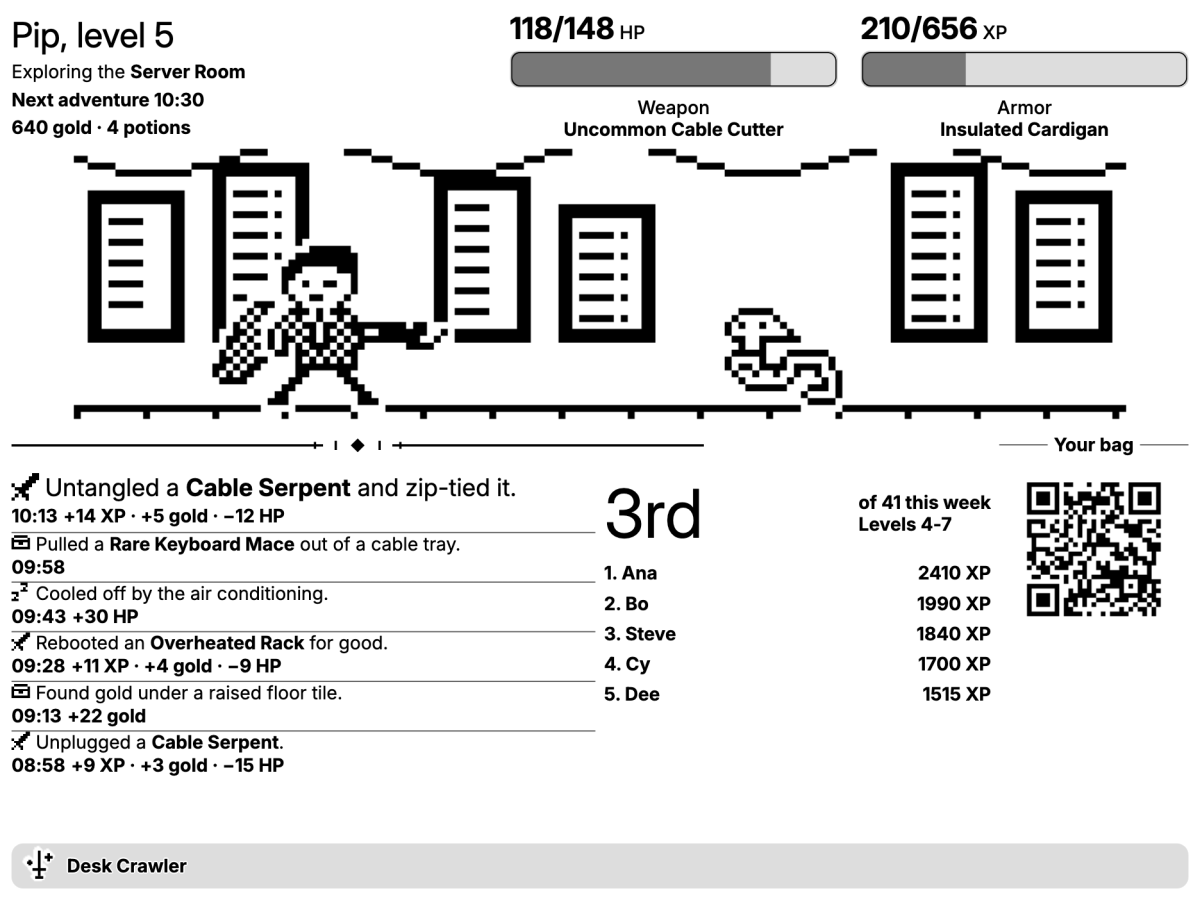
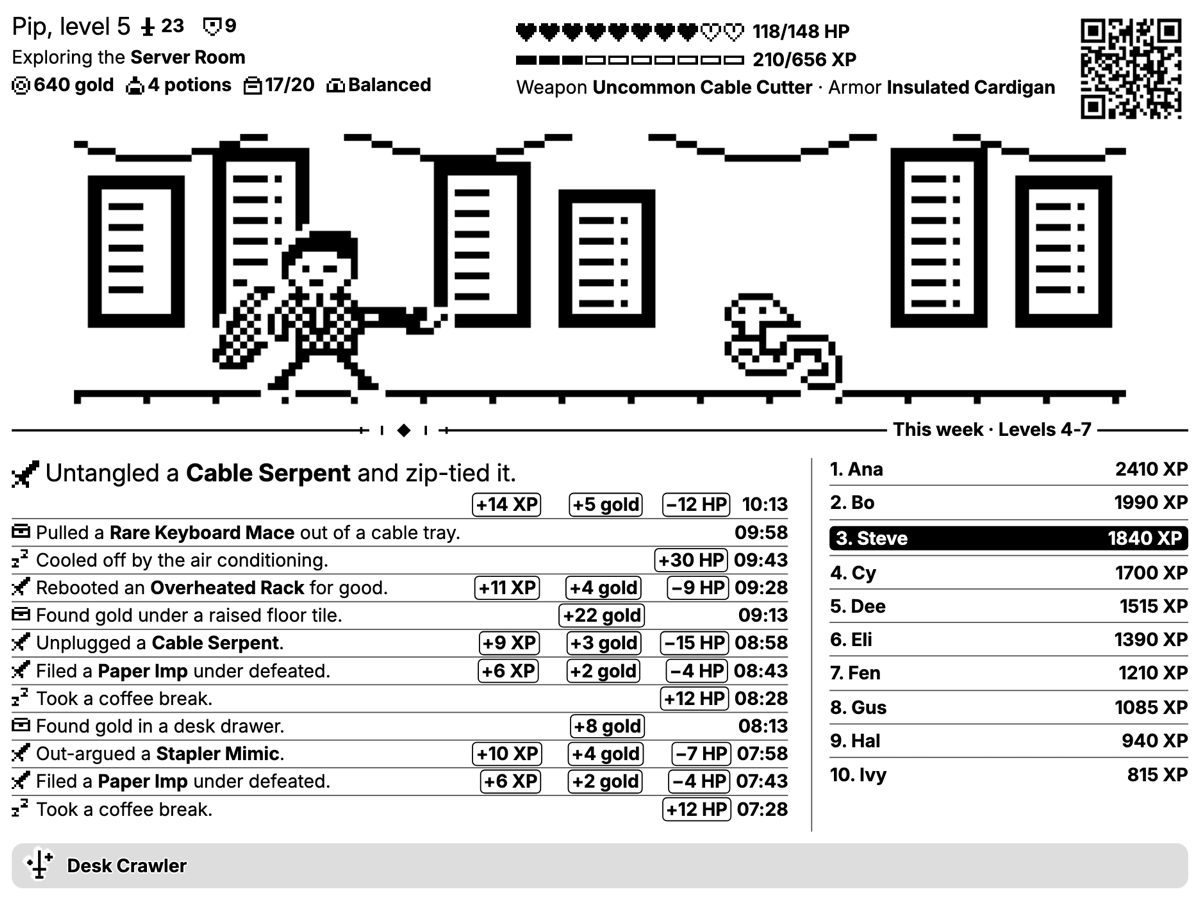
Re-render the public sample screen from the current template (v46) for the game page, waiting list and QR pitch

Changed region(s): [[0.0, 0.0, 1.0, 0.9333]]

diff --git a/docs/status.md b/docs/status.md
@@ -54,7 +54,7 @@ The [current release checklist](evidence/release.md) is the gate source. Install
 
 Submission work:
 
-- Listing image regenerated from the original installation and verified on the actual install page. The fictional [sample](release/featured-image.png) is deployed on the landing page ([evidence](evidence/listing-polish-deploy.md)).
+- Listing image regenerated from the original installation and verified on the actual install page. The public pages' fictional sample (`apps/web/public/games/desk-crawler/screen-sample.png`, shown on the game page, the waiting list and the QR pitch) was re-rendered on 2026-10-08 from the `--marketing` preview at template v46, replacing the v26-era [original](release/featured-image.png) ([evidence](evidence/listing-polish-deploy.md)).
 - Install video: done 2026-10-07. Barry recorded and hosted it; the link went in the review email.
 - [Review package](release/review-package.md): 33-character description and games/entertainment categories saved and verified; accurate bag-sleep/keepsake help is deployed.
 - [Review email](review-email.md): owner/sender barry@barrymichaeldoyle.com confirmed; Barry plans to promote TRMNL at launch, with channels/timing unspecified. Author-entitlement check complete ([evidence](evidence/author-entitlement.md)); the final draft with the video link is done (2026-10-07) and Barry submitted plugin 564 for review and sent the email on 2026-10-07.
